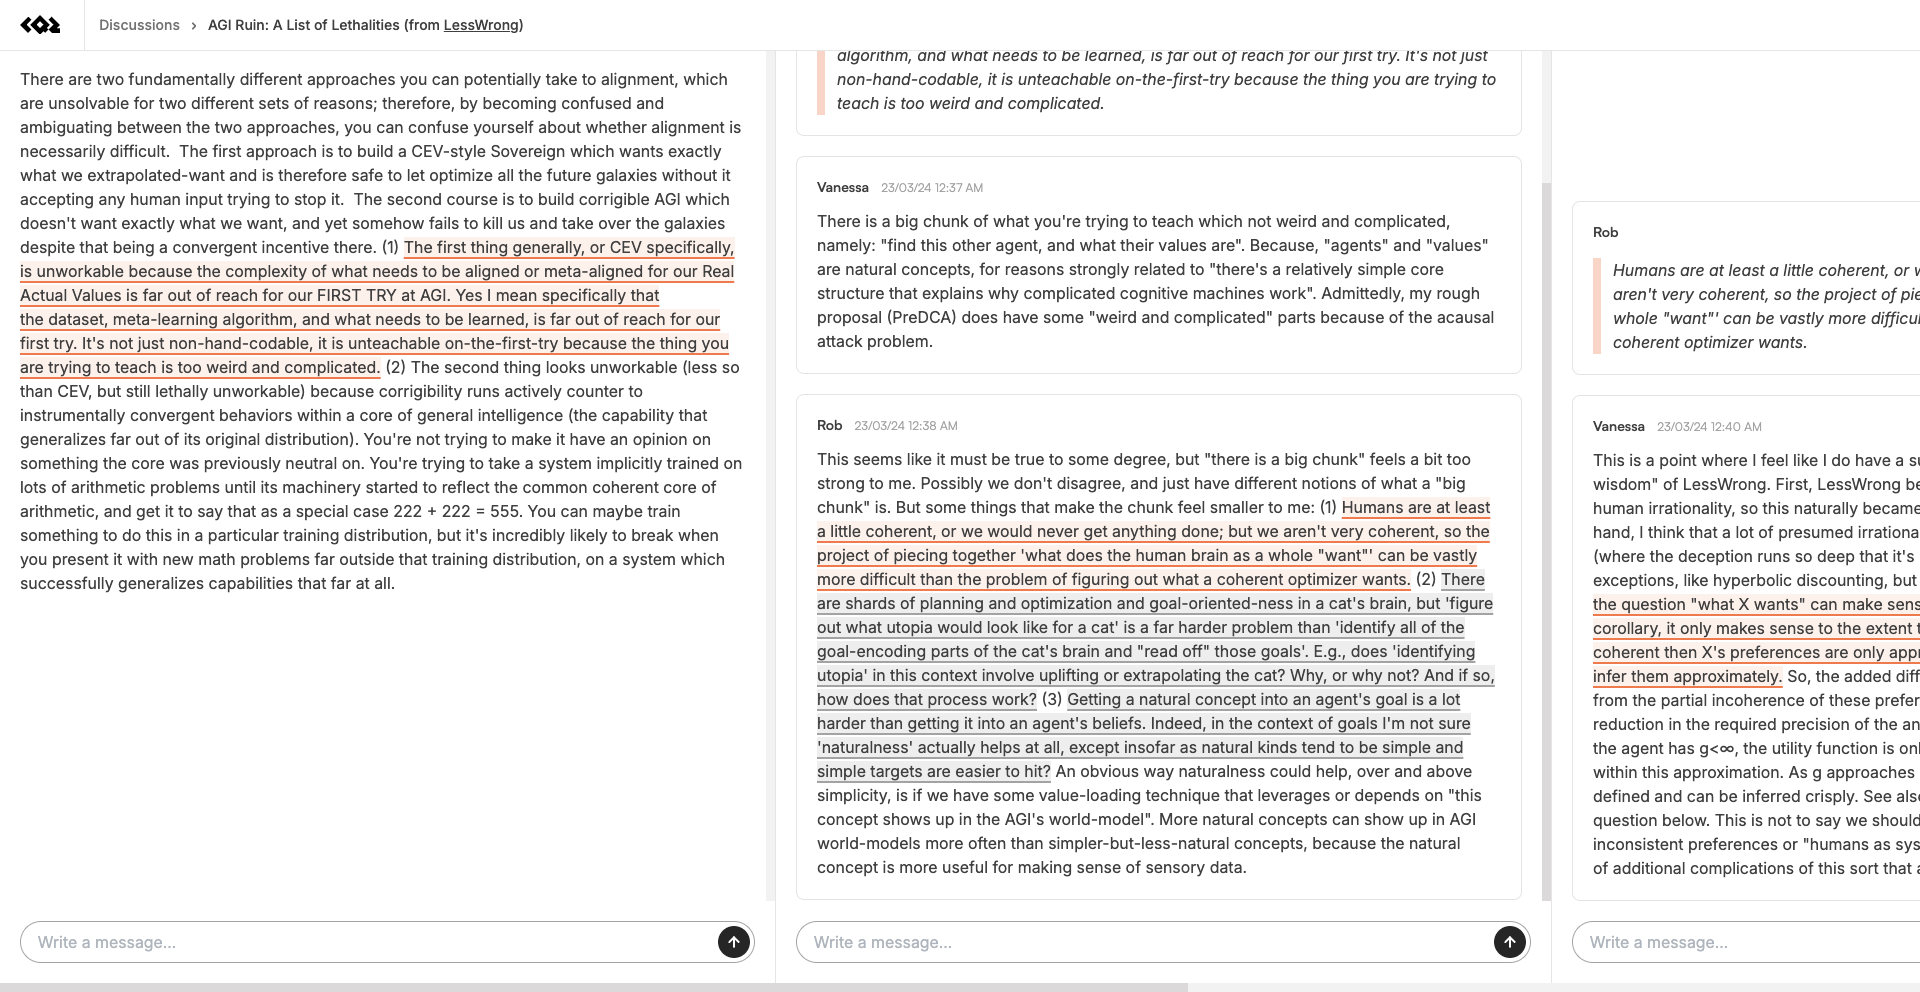
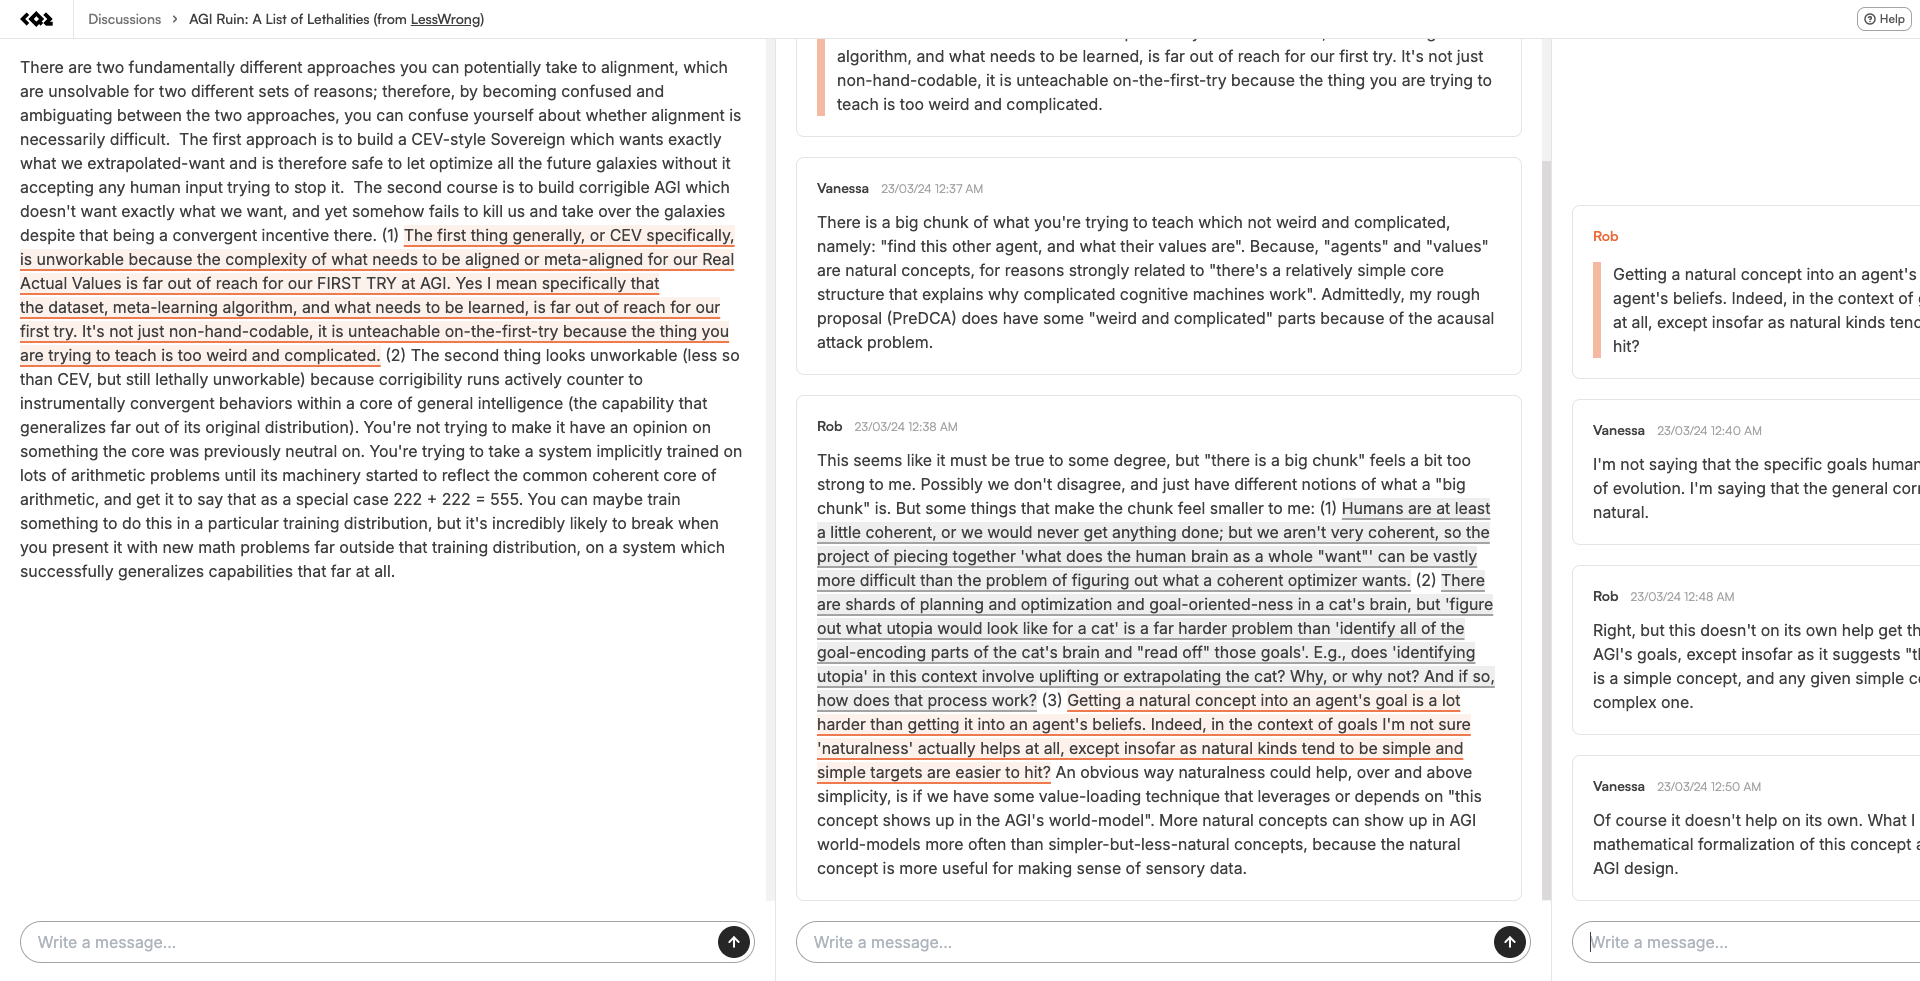
chore: slight ui/landing changes

diff --git a/src/components/discussion/child-thread.tsx b/src/components/discussion/child-thread.tsx
@@ -562,11 +562,11 @@ const ChildThread = ({ threadID }) => {
         </div>
         <div className="mx-5 mb-0 mt-5 rounded-lg border bg-[#FFFFFF] p-5">
           <span
-            className={`${satoshi.className} mb-4 flex items-center text-sm font-semibold text-neutral-700`}
+            className={`${satoshi.className} mb-4 flex items-center text-sm font-semibold text-[#FF5F1F]`}
           >
             {thread.quote_by}
           </span>
-          <div className="border-l-8 border-[#FF5F1F]/30 pl-3 italic text-neutral-700">
+          <div className="border-l-8 border-[#FF5F1F]/50 pl-3 text-neutral-700">
             {thread.quote}
           </div>
         </div>

diff --git a/src/app/page.tsx b/src/app/page.tsx
@@ -123,7 +123,7 @@ export default function Home() {
             discussion chaos
           </p>
           <p
-            className={`${satoshi.className} mt-8 w-full text-center text-xl font-medium text-neutral-500 md:w-[64rem] md:text-3xl md:leading-[2.8rem]`}
+            className={`${satoshi.className} mt-8 w-full text-center text-xl font-medium text-neutral-500 md:w-[68rem] md:text-3xl md:leading-[2.8rem]`}
           >
             CQ2 lets you create organised discussions around specific quotes.
             Hyper-focus on one thing at a time. No more losing context. No more
